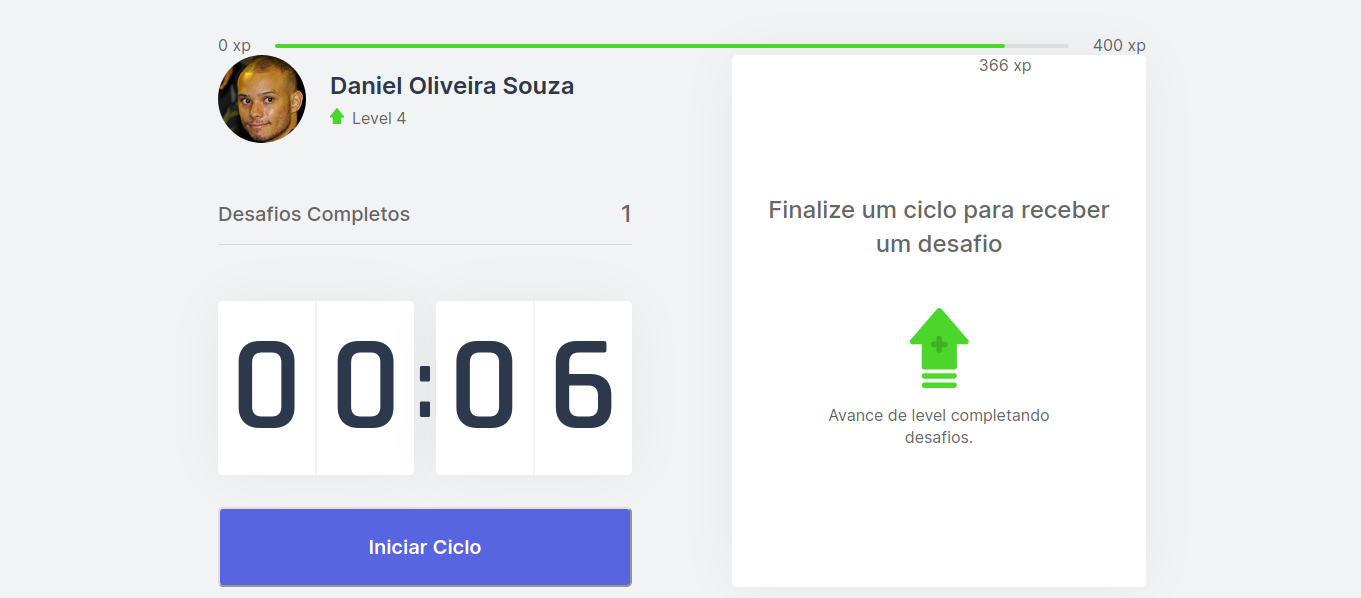
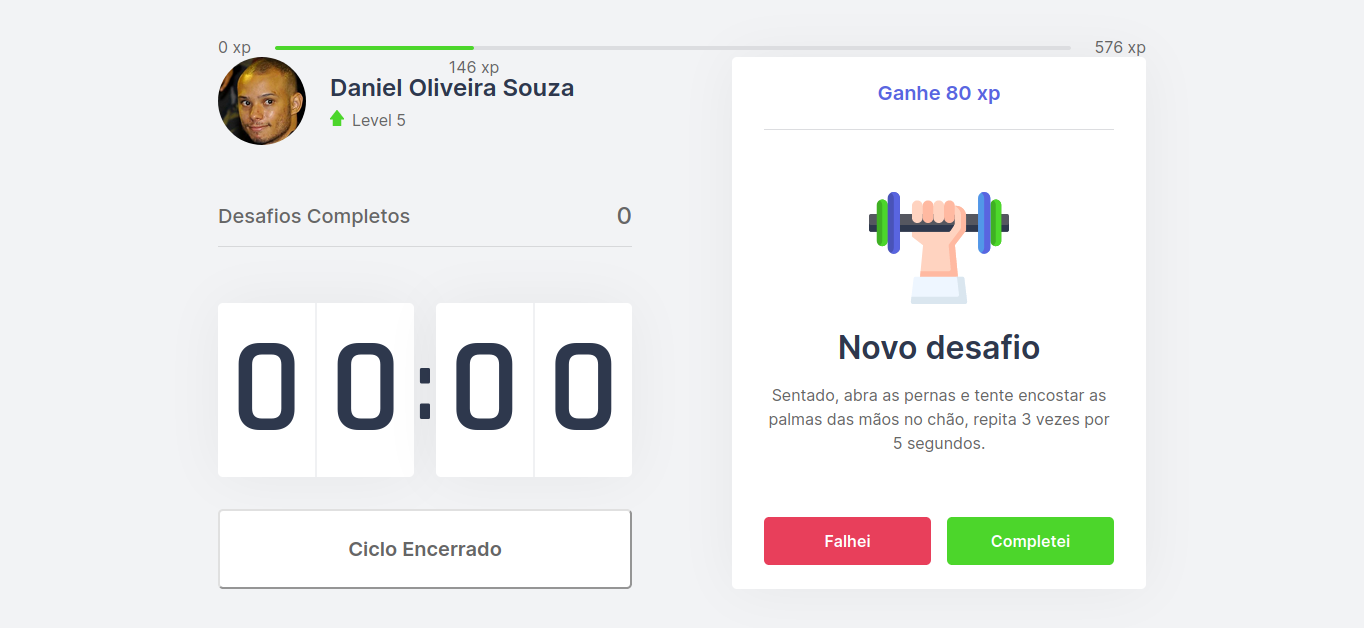
atualiza screnshot do README.md

diff --git a/README.md b/README.md
@@ -1,7 +1,7 @@
 
 
 <p align="center">
-<img src="https://raw.githubusercontent.com/DanielOliveiraSouza/next-level-week-04/main/screenshots/captura-01-web-tela-inicial.png"/>
+<img src="https://raw.githubusercontent.com/DanielOliveiraSouza/next-level-week-04/main/screenshots/captura-02-web-tela-novo-desafio.png"/>
 </p>
 
 <h1 align="center">Projeto Moveit-next - Next Level Week #4</h1>
